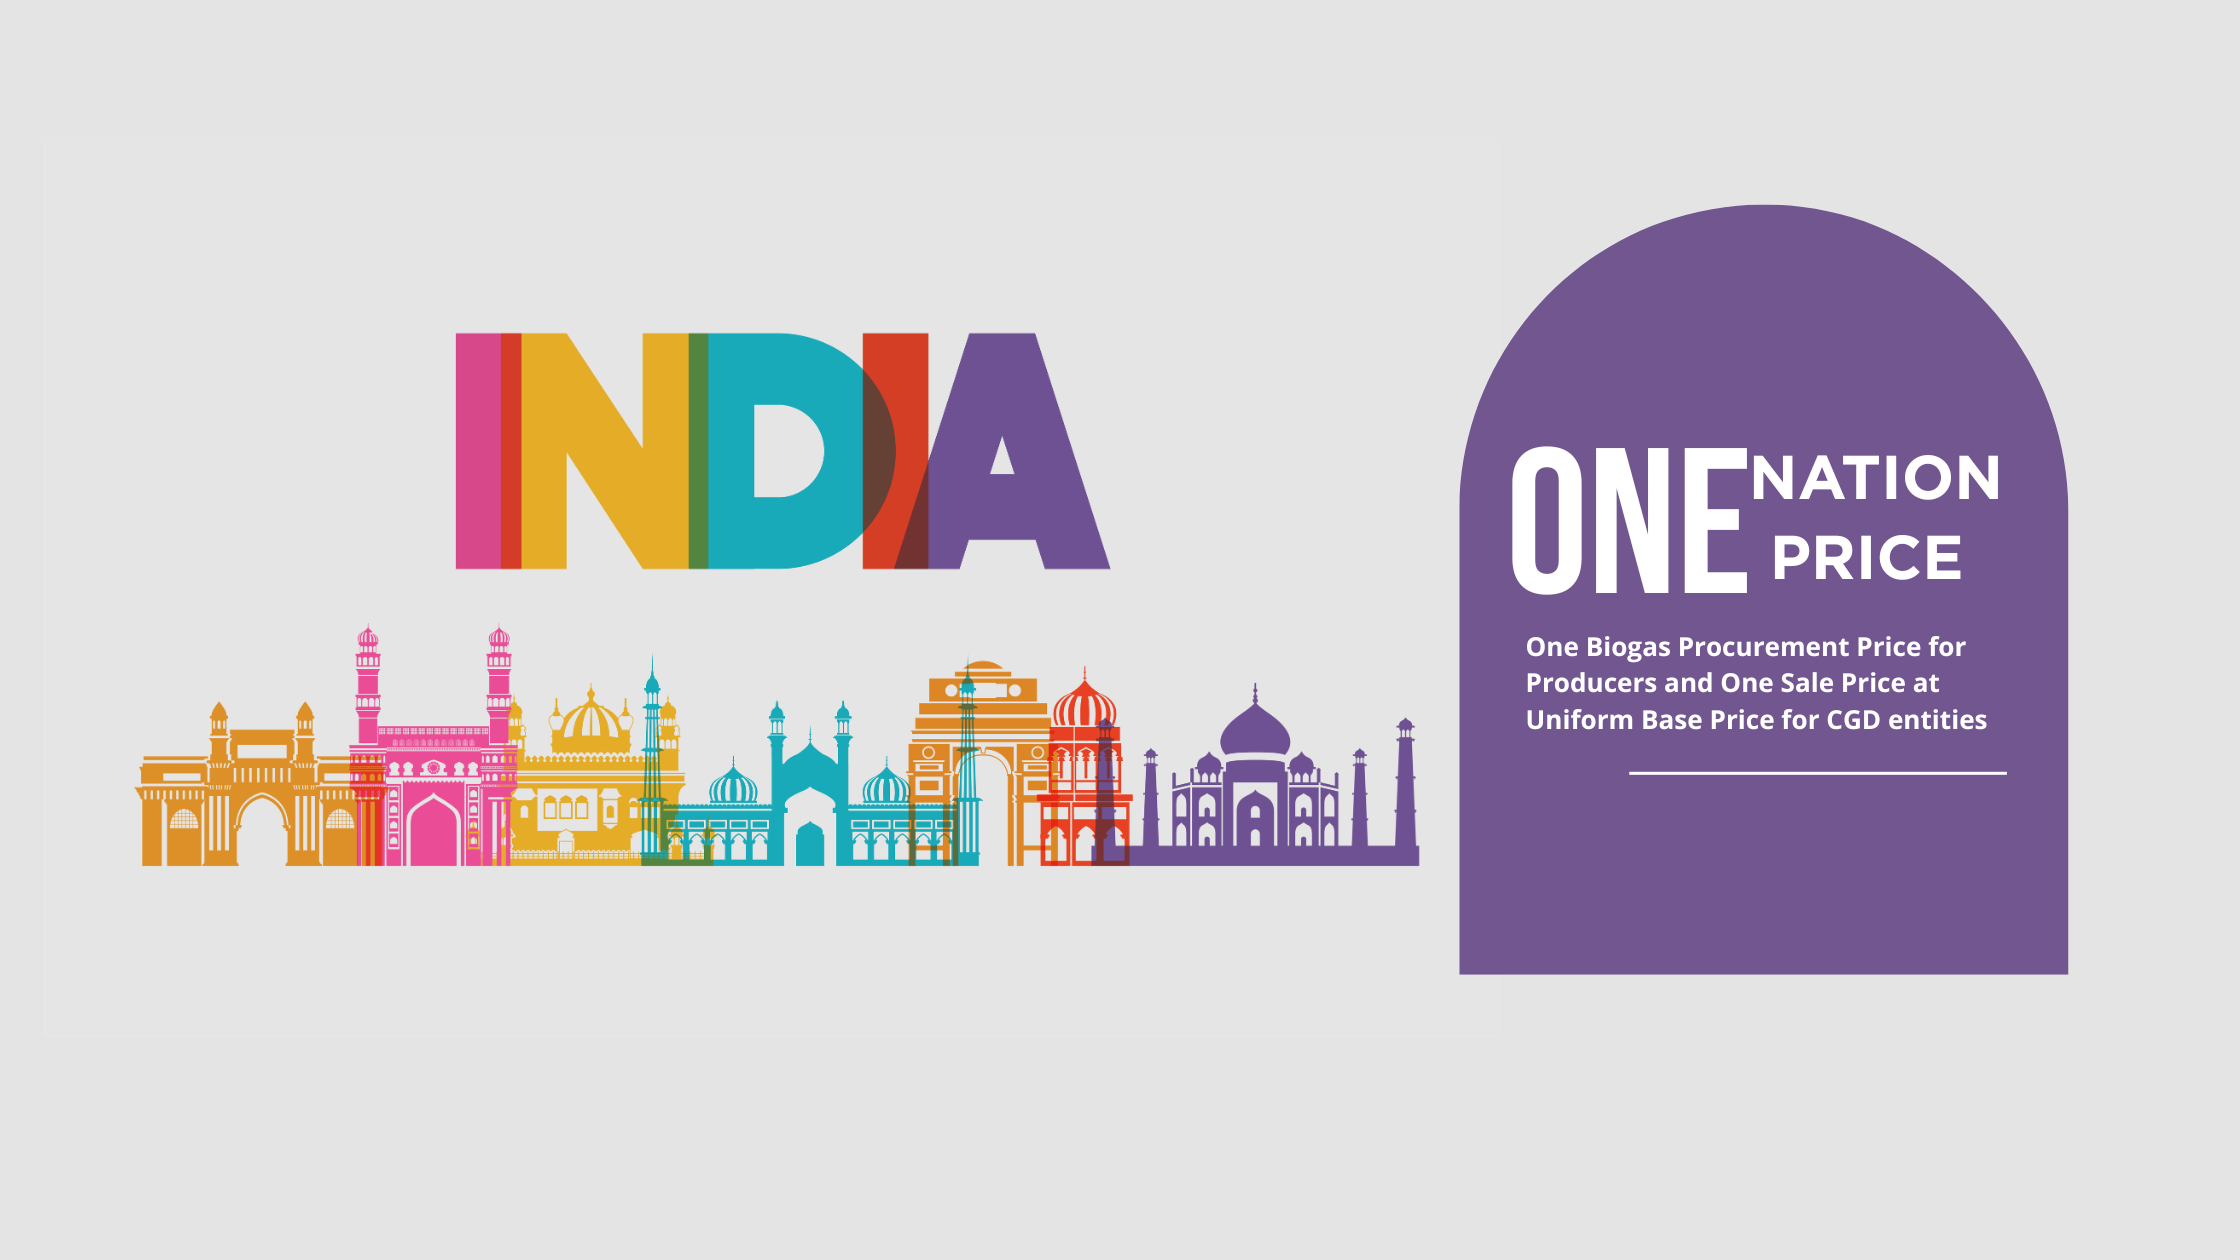
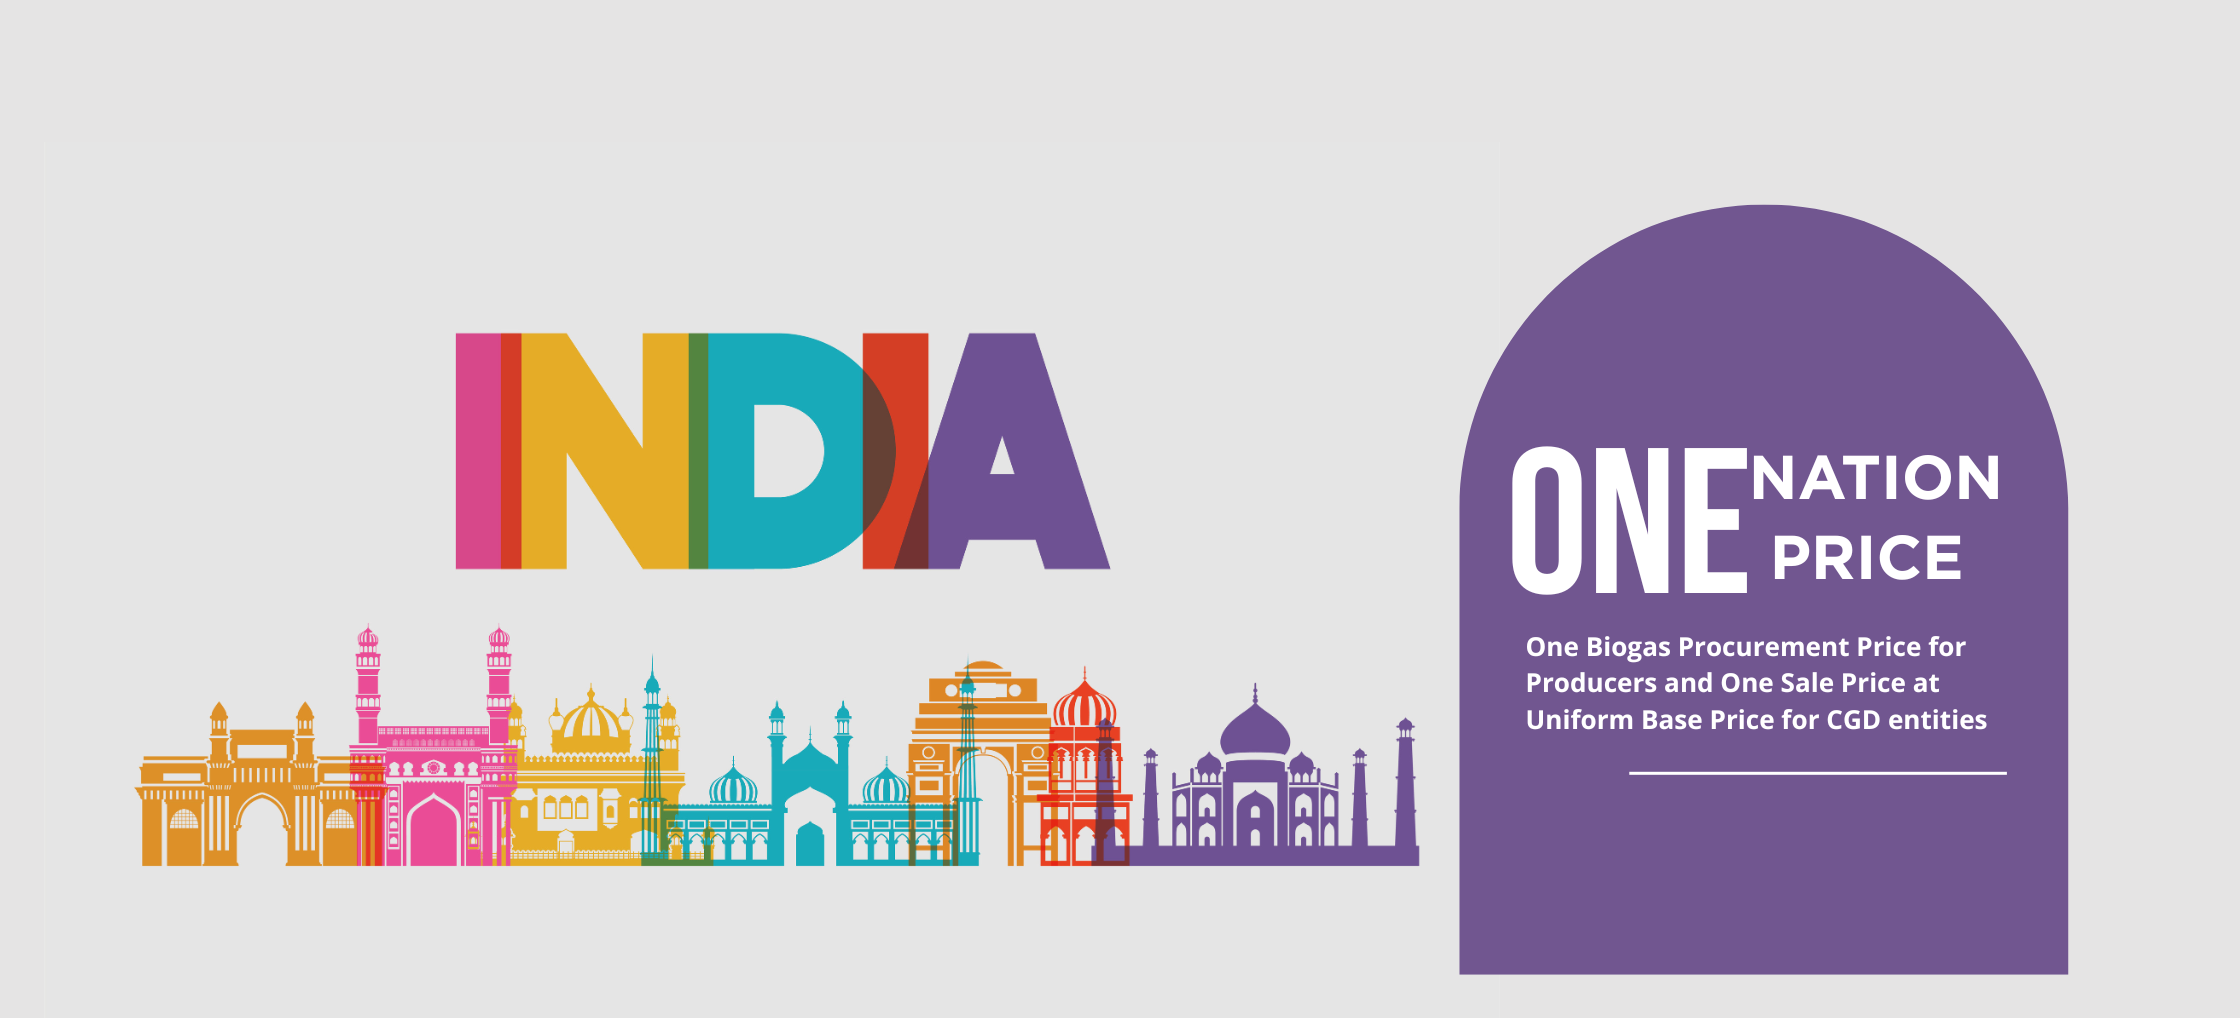
added

Changed region(s): [[0.0625, 0.1523, 0.9375, 0.9745]]

diff --git a/src/app/Components/HomeBannerSlider.jsx b/src/app/Components/HomeBannerSlider.jsx
@@ -2,6 +2,35 @@ import React, { useState, useEffect } from "react";
 import Image from 'next/image';
 import { ChevronLeft, ChevronRight } from "lucide-react";
 
+const mobileStyles = `
+  @media (max-width: 639px) {
+    .banner-wrapper {
+      width: 100%;
+      height: 190px;        /* ← change mobile banner height here */
+      margin-top: 64px;
+    }
+    .banner-slide {
+      height: 220px;        /* ← must match banner-wrapper height */
+      width: 100vw;         /* ← full viewport width */
+    }
+    .banner-btn-prev { left: 8px; }
+    .banner-btn-next { right: 8px; }
+    .banner-btn-icon {
+      width: 28px;
+      height: 28px;
+    }
+    .banner-chevron {
+      width: 16px;
+      height: 16px;
+    }
+    .banner-dots { bottom: 8px; gap: 6px; }
+    .banner-dot {
+      width: 8px;
+      height: 8px;
+    }
+  }
+`;
+
 const HomeBannerSlider = () => {
   const slides = [
     {
@@ -32,7 +61,6 @@ const HomeBannerSlider = () => {
 
   const [currentIndex, setCurrentIndex] = useState(0);
 
-  // Auto-play functionality
   useEffect(() => {
     const timer = setInterval(() => {
       setCurrentIndex((prev) => (prev === slides.length - 1 ? 0 : prev + 1));
@@ -40,105 +68,71 @@ const HomeBannerSlider = () => {
     return () => clearInterval(timer);
   }, [currentIndex]);
 
-  const prevSlide = () => {
+  const prevSlide = () =>
     setCurrentIndex((prev) => (prev === 0 ? slides.length - 1 : prev - 1));
-  };
 
-  const nextSlide = () => {
+  const nextSlide = () =>
     setCurrentIndex((prev) => (prev === slides.length - 1 ? 0 : prev + 1));
-  };
 
   return (
-    <div className="relative w-full h-[300px] sm:h-[400px] md:h-[500px] lg:h-[510px] overflow-hidden mt-16">
-      {/* Slides */}
-      <div
-        className="flex transition-transform duration-700 ease-in-out"
-        style={{ transform: `translateX(-${currentIndex * 100}%)` }}
-      >
-        {slides.map((slide, index) => (
-          <div
-            key={slide.id}
-            className="w-full flex-shrink-0 relative h-[300px] sm:h-[400px] md:h-[500px] lg:h-[650px]"
-          >
-            <Image
-              src={slide.image}
-              alt={slide.title}
-              width={800}
-              height={600}
-              className={`w-full h-full object-cover transition-transform duration-[8000ms] ease-out ${
-                index === currentIndex ? 'scale-110' : 'scale-100'
+    <>
+      <style>{mobileStyles}</style>
+      {/* Desktop height controlled by Tailwind only — mobile height by CSS only */}
+      <div className="banner-wrapper relative w-full md:h-[400px] lg:h-[480px] overflow-hidden mt-24">
+        <div
+          className="flex h-full transition-transform duration-700 ease-in-out"
+          style={{ transform: `translateX(-${currentIndex * 100}%)` }}
+        >
+          {slides.map((slide) => (
+            // Desktop: h-full. Mobile: .banner-slide CSS overrides height & width
+            <div key={slide.id} className="banner-slide w-full flex-shrink-0 relative h-full">
+              <Image
+                src={slide.image}
+                alt={slide.title}
+                fill
+                className="object-cover object-center"
+                priority
+              />
+            </div>
+          ))}
+        </div>
+
+        {/* Prev Button */}
+        <button
+          onClick={prevSlide}
+          className="banner-btn-prev absolute left-5 top-1/2 -translate-y-1/2 z-20"
+        >
+          <div className="banner-btn-icon sm:w-10 sm:h-10 w-1 h-1 bg-gradient-to-br from-green-400 to-emerald-500 rounded-full shadow-md flex items-center justify-center border border-white/20">
+            <ChevronLeft className="banner-chevron w-5 h-5 text-white" />
+          </div>
+        </button>
+
+        {/* Next Button */}
+        <button
+          onClick={nextSlide}
+          className="banner-btn-next absolute right-5 top-1/2 -translate-y-1/2 z-20"
+        >
+          <div className="banner-btn-icon w-10 h-10 bg-gradient-to-br from-green-400 to-emerald-500 rounded-full shadow-md flex items-center justify-center border border-white/20">
+            <ChevronRight className="banner-chevron w-5 h-5 text-white" />
+          </div>
+        </button>
+
+        {/* Dots */}
+        <div className="banner-dots absolute bottom-4 left-1/2 -translate-x-1/2 flex gap-2 z-20">
+          {slides.map((_, index) => (
+            <button
+              key={index}
+              onClick={() => setCurrentIndex(index)}
+              className={`banner-dot rounded-full transition-all duration-300 ${
+                currentIndex === index
+                  ? "w-3 h-3 bg-white scale-125"
+                  : "w-3 h-3 bg-gray-400 hover:bg-gray-300"
               }`}
             />
-            {/* Shimmer effect on active slide */}
-            {index === currentIndex && (
-              <div className="absolute inset-0 bg-gradient-to-r from-transparent via-white/10 to-transparent animate-shimmer" />
-            )}
-          </div>
-        ))}
-      </div>
-
-      {/* Prev Button */}
-      <button
-        onClick={prevSlide}
-        className="absolute left-3 sm:left-5 top-1/2 -translate-y-1/2 z-20 group"
-      >
-        <div className="relative">
-          <div className="relative w-8 h-8 sm:w-12 sm:h-12 bg-gradient-to-br from-green-400 to-emerald-500 rounded-full shadow-lg hover:shadow-xl transition-all duration-300 hover:scale-110 flex items-center justify-center backdrop-blur-sm border border-white/20">
-            <ChevronLeft className="w-4 h-4 sm:w-6 sm:h-6 text-white transition-transform duration-300 group-hover:-translate-x-0.5" />
-          </div>
-          <div className="absolute inset-0 rounded-full border-2 border-green-300 opacity-0 group-hover:opacity-100 animate-ping" />
-          <div className="absolute inset-0 rounded-full bg-green-400 opacity-0 group-hover:opacity-20 blur-xl transition-opacity duration-300" />
+          ))}
         </div>
-      </button>
-
-      {/* Next Button */}
-      <button
-        onClick={nextSlide}
-        className="absolute right-3 sm:right-5 top-1/2 -translate-y-1/2 z-20 group"
-      >
-        <div className="relative">
-          <div className="relative w-8 h-8 sm:w-12 sm:h-12 bg-gradient-to-br from-green-400 to-emerald-500 rounded-full shadow-lg hover:shadow-xl transition-all duration-300 hover:scale-110 flex items-center justify-center backdrop-blur-sm border border-white/20">
-            <ChevronRight className="w-4 h-4 sm:w-6 sm:h-6 text-white transition-transform duration-300 group-hover:translate-x-0.5" />
-          </div>
-          <div className="absolute inset-0 rounded-full border-2 border-green-300 opacity-0 group-hover:opacity-100 animate-ping" />
-          <div className="absolute inset-0 rounded-full bg-green-400 opacity-0 group-hover:opacity-20 blur-xl transition-opacity duration-300" />
-        </div>
-      </button>
-
-      {/* Dots */}
-      <div className="absolute bottom-3 sm:bottom-4 left-1/2 -translate-x-1/2 flex gap-2">
-        {slides.map((_, index) => (
-          <button
-            key={index}
-            onClick={() => setCurrentIndex(index)}
-            className={`transition-all duration-300 ${
-              currentIndex === index 
-                ? "w-2 h-2 sm:w-3 sm:h-3 bg-white rounded-full scale-125" 
-                : "w-2 h-2 sm:w-3 sm:h-3 bg-gray-400 rounded-full hover:bg-gray-300 hover:scale-110"
-            }`}
-          >
-            {currentIndex === index && (
-              <span className="absolute inset-0 rounded-full border-2 border-white animate-pulse" />
-            )}
-          </button>
-        ))}
       </div>
-
-      <style jsx>{`
-        @keyframes shimmer {
-          0% {
-            transform: translateX(-100%);
-          }
-          100% {
-            transform: translateX(100%);
-          }
-        }
-
-        .animate-shimmer {
-          animation: shimmer 3s ease-in-out infinite;
-        }
-      `}</style>
-    </div>
+    </>
   );
 };
 
